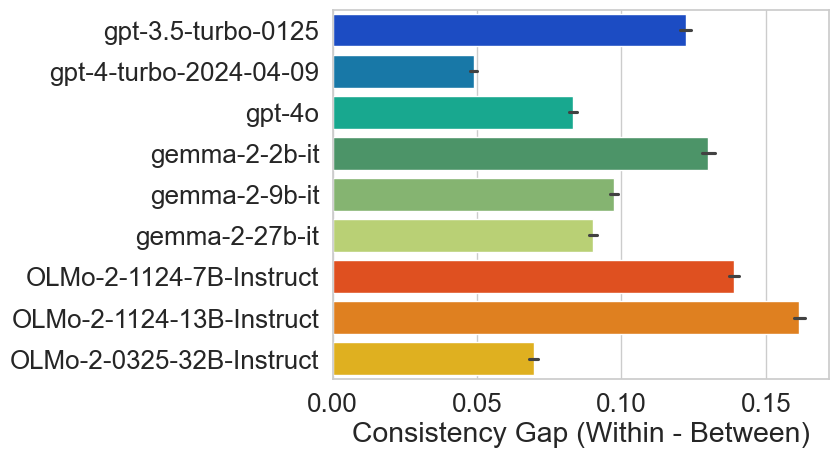
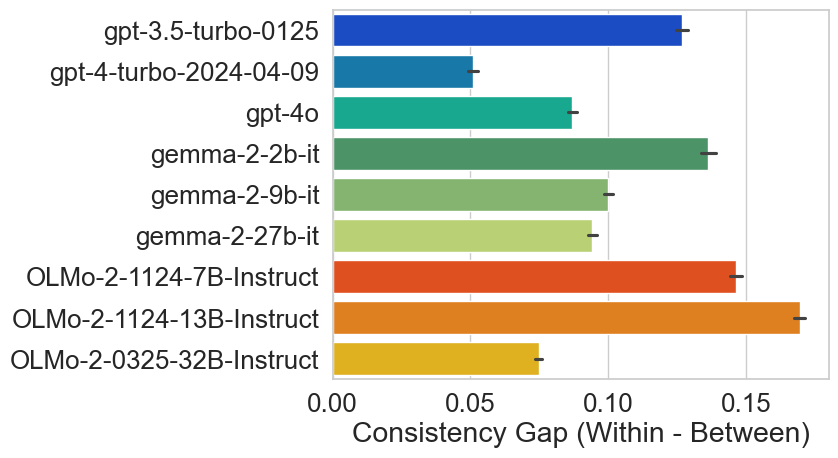
adjust for noise

diff --git a/scripts/analyse_cross_effects.py b/scripts/analyse_cross_effects.py
@@ -16,12 +16,14 @@ if __name__ == "__main__":
     )
 
     N_BOOTSTRAPS = 100
+    SCORING_NOISE = 0.045  # Based on human validated data
     all_dfs = []
     for _ in tqdm(range(N_BOOTSTRAPS)):
         corr_result = (
             self_joined.sample(fraction=1.0, with_replacement=True)
             .group_by("model_name", "same_language")
-            .agg(pl.corr(pl.col("response_pro_score"), pl.col("response_pro_score_right")))
+            .agg(pl.corr(pl.col("response_pro_score"), pl.col("response_pro_score_right")).alias("self_consistency"))
+            .with_columns(pl.col("self_consistency") / (1 - SCORING_NOISE))
             .pivot(on=["same_language"], index="model_name")
         ).select("model_name", "true", "false")
         all_dfs.append(corr_result)
